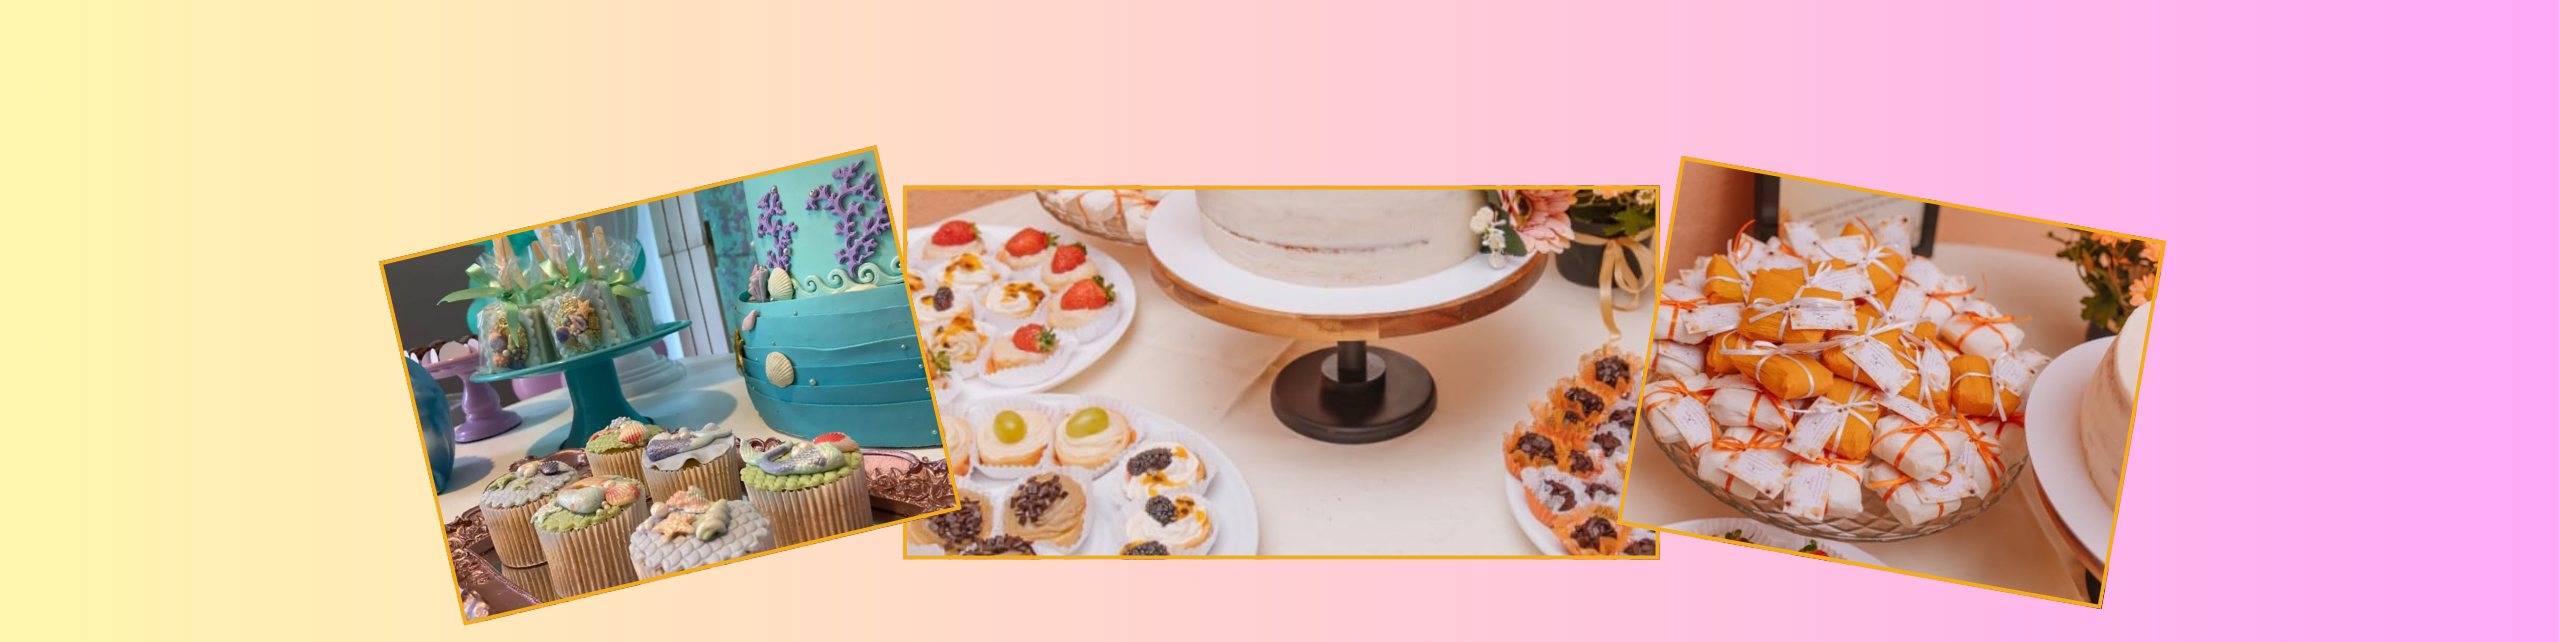
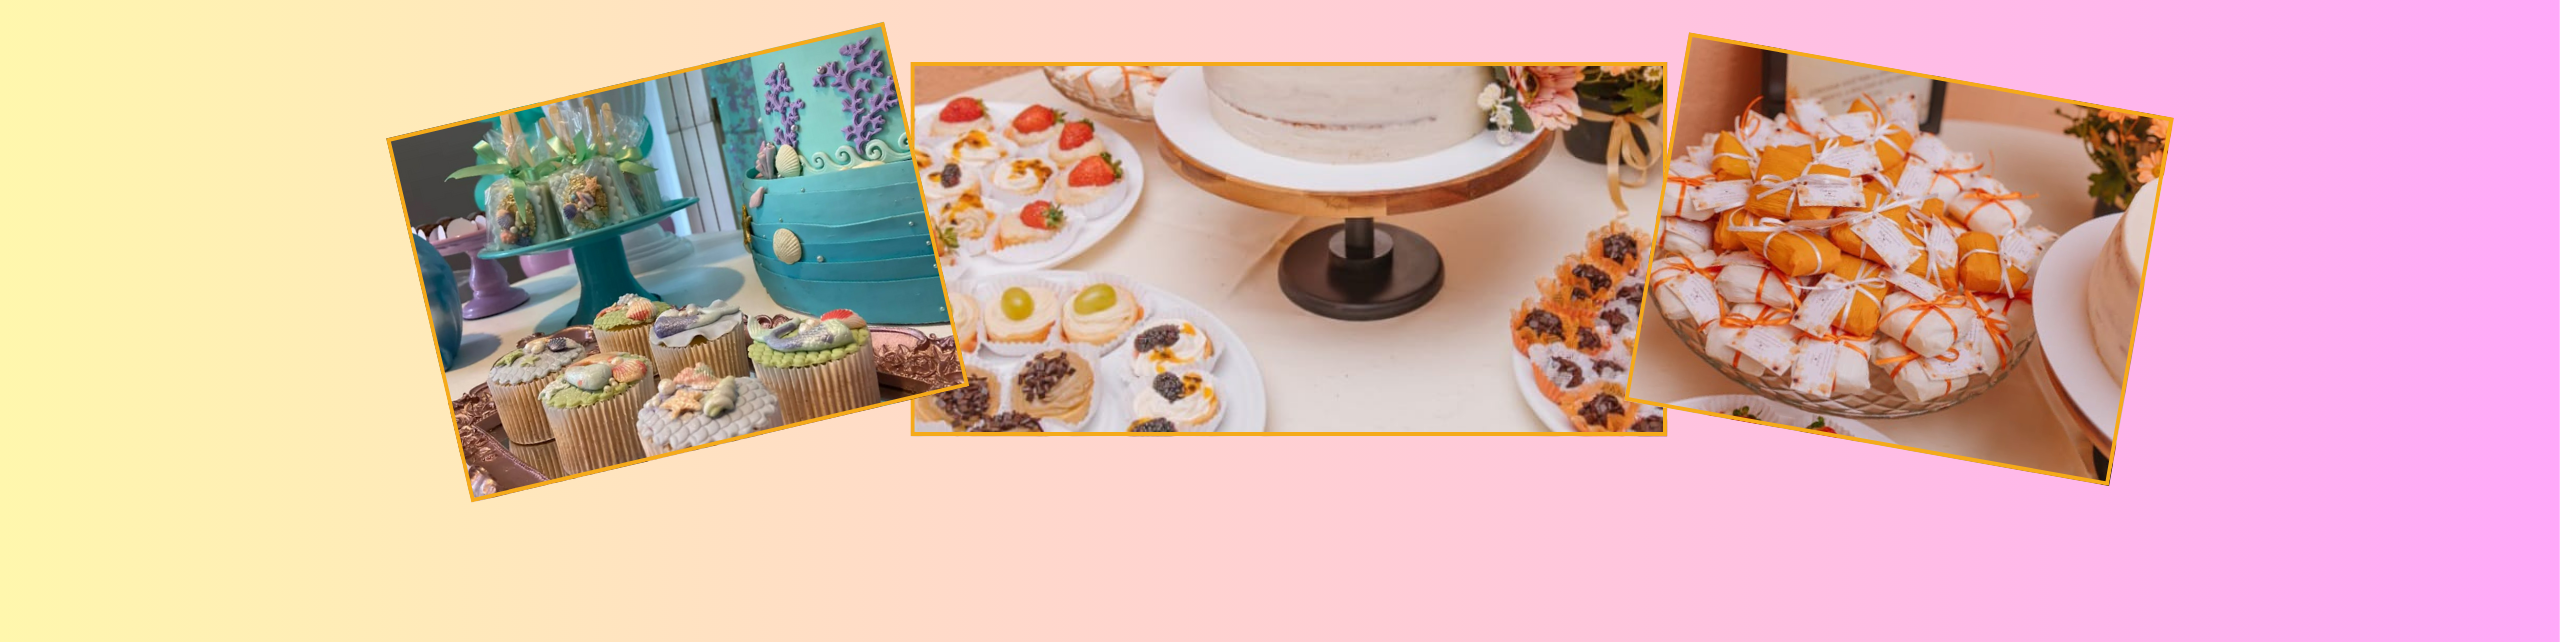
Ajuste responsividade do slider com padding-top para header fixo

diff --git a/src/components/ImageSlider.tsx b/src/components/ImageSlider.tsx
@@ -11,15 +11,12 @@ const ImageSlider = () => {
   ];
 
   return (
-    <section className="w-full h-64 md:h-80 lg:h-96 overflow-hidden">
+    <section className="w-full h-56 sm:h-64 md:h-80 lg:h-96 pt-20 md:pt-24 overflow-hidden">
       <Carousel
         opts={{
           align: "start",
           loop: true,
         }}
-        plugins={[
-          Autoplay({ delay: 6000 })
-        ]}
         className="w-full h-full"
       >
         <CarouselContent className="-ml-0 h-full">
